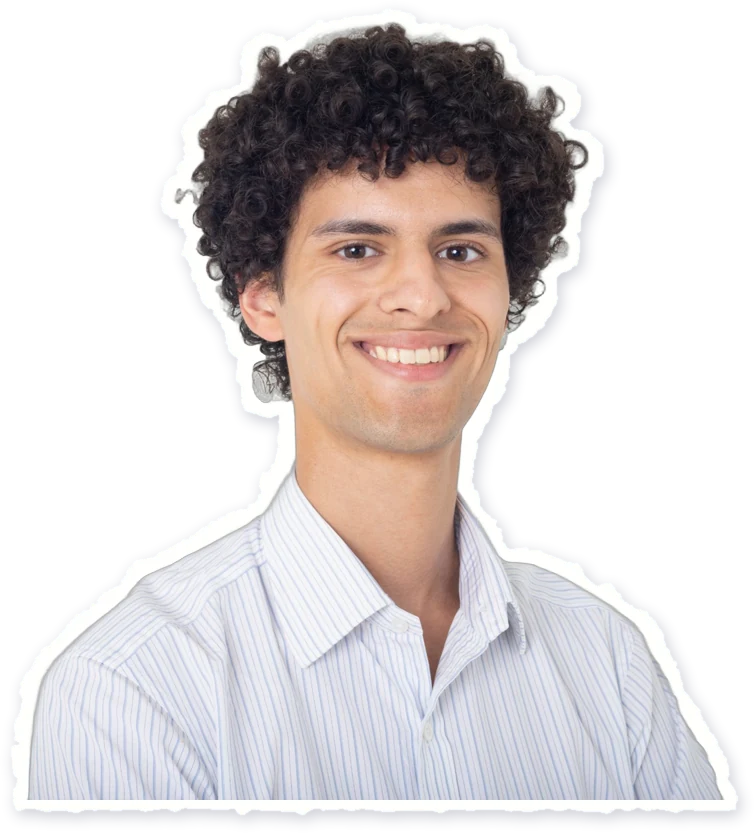
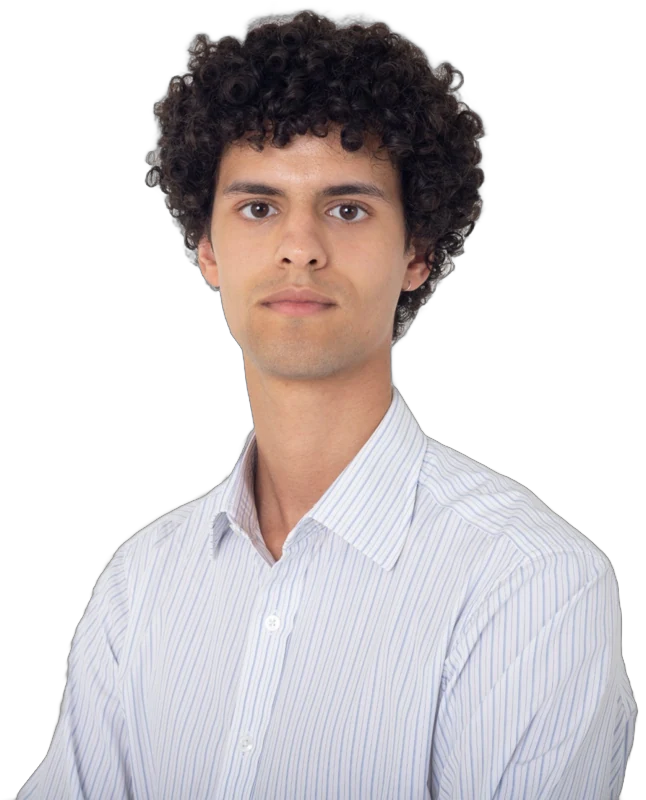
New portrait without border or tilt; drop ellipses from name
Claude-Session: https://claude.ai/code/session_01YNvwHEbguLSgdSRnigxDG7

diff --git a/index.html b/index.html
@@ -49,7 +49,7 @@ a.bubble:hover, a.bubble:focus-visible { background: var(--ink-deep); border-col
 @keyframes drift { from { translate: 0 -5px; } to { translate: 0 5px; } }
 .about { flex: 1 1 220px; max-width: 280px; display: flex; flex-direction: column; gap: 18px; }
 .about h1 { font-size: 30px; line-height: 1.1; }
-.portrait { width: 100%; max-width: 240px; transform: rotate(-1.5deg); }
+.portrait { width: 100%; max-width: 240px; }
 .portrait img { width: 100%; height: auto; display: block; }
 
 /* ---------- Work pages ---------- */
@@ -128,9 +128,9 @@ a.card:hover .title { text-decoration: underline; text-underline-offset: 3px; }
       <div class="map" id="map"><svg id="lines" aria-hidden="true" preserveAspectRatio="none"></svg></div>
     </div>
     <aside class="about">
-      <div class="portrait"><img src="portrait.webp" width="754" height="833" alt="Isaaq Tomkins"></div>
-      <h1>Isaaq Tomkins...</h1>
-      <p>...is a journalist based in London. He is a staff writer at TLDR News, covering companies, markets, and AI.</p>
+      <div class="portrait"><img src="portrait.webp" width="646" height="800" alt="Isaaq Tomkins"></div>
+      <h1>Isaaq Tomkins</h1>
+      <p>Isaaq is a journalist based in London. He is a staff writer at TLDR News, covering companies, markets, and AI.</p>
       <p>Before that, he was a Scott Trust Fellow at the Guardian, covering national news, environment and investigations.</p>
     </aside>
   </section>
